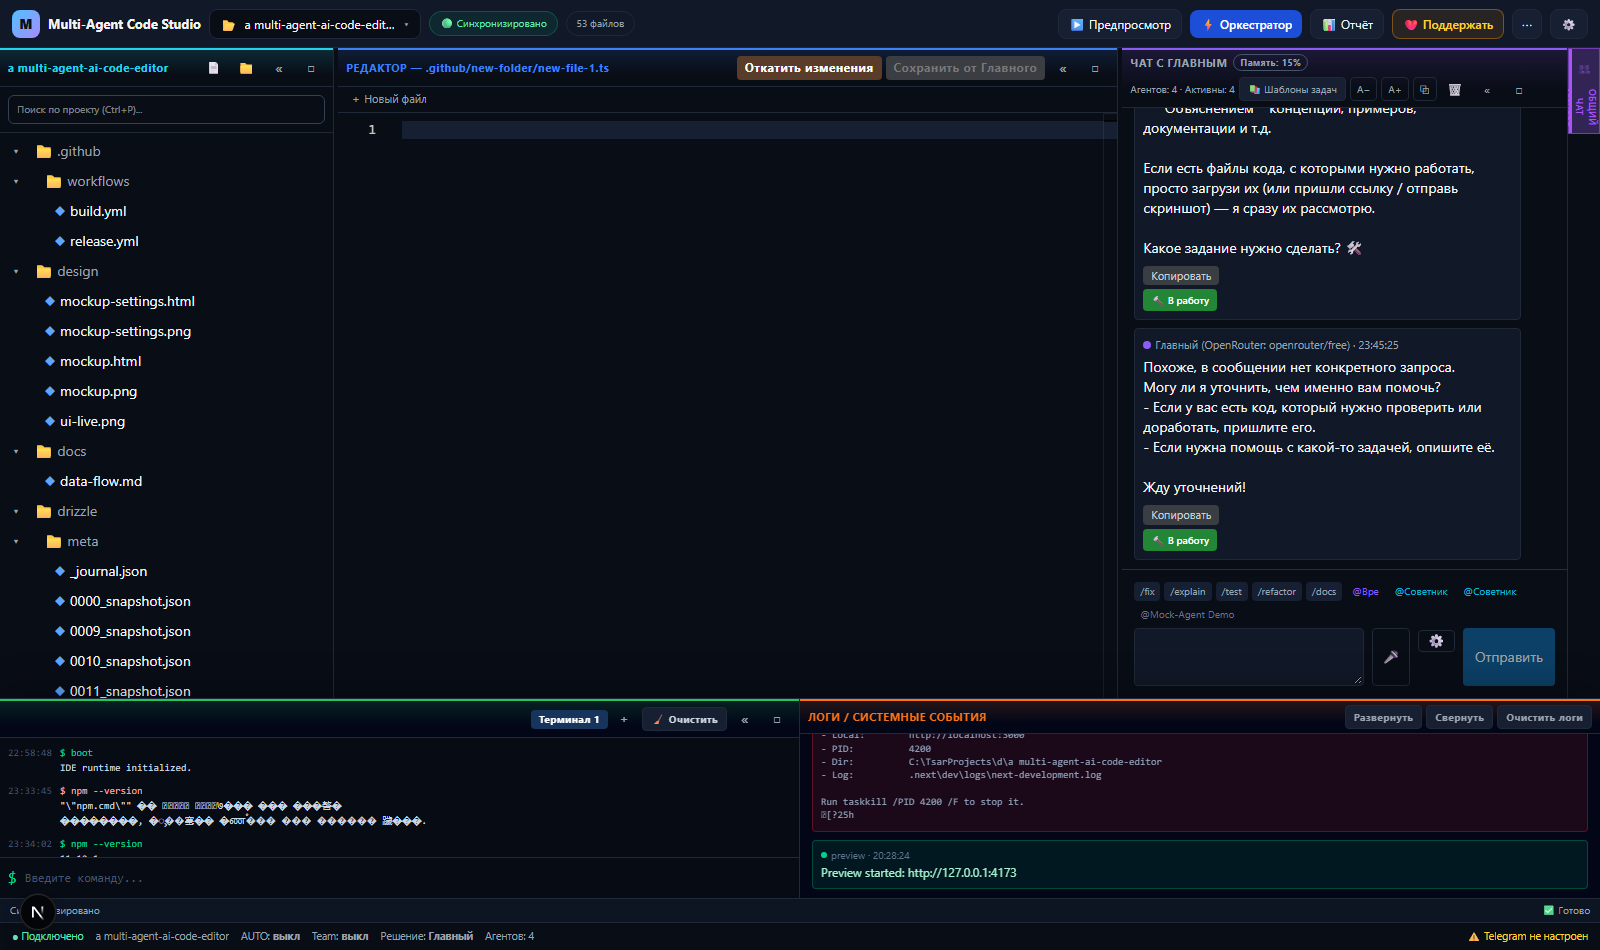
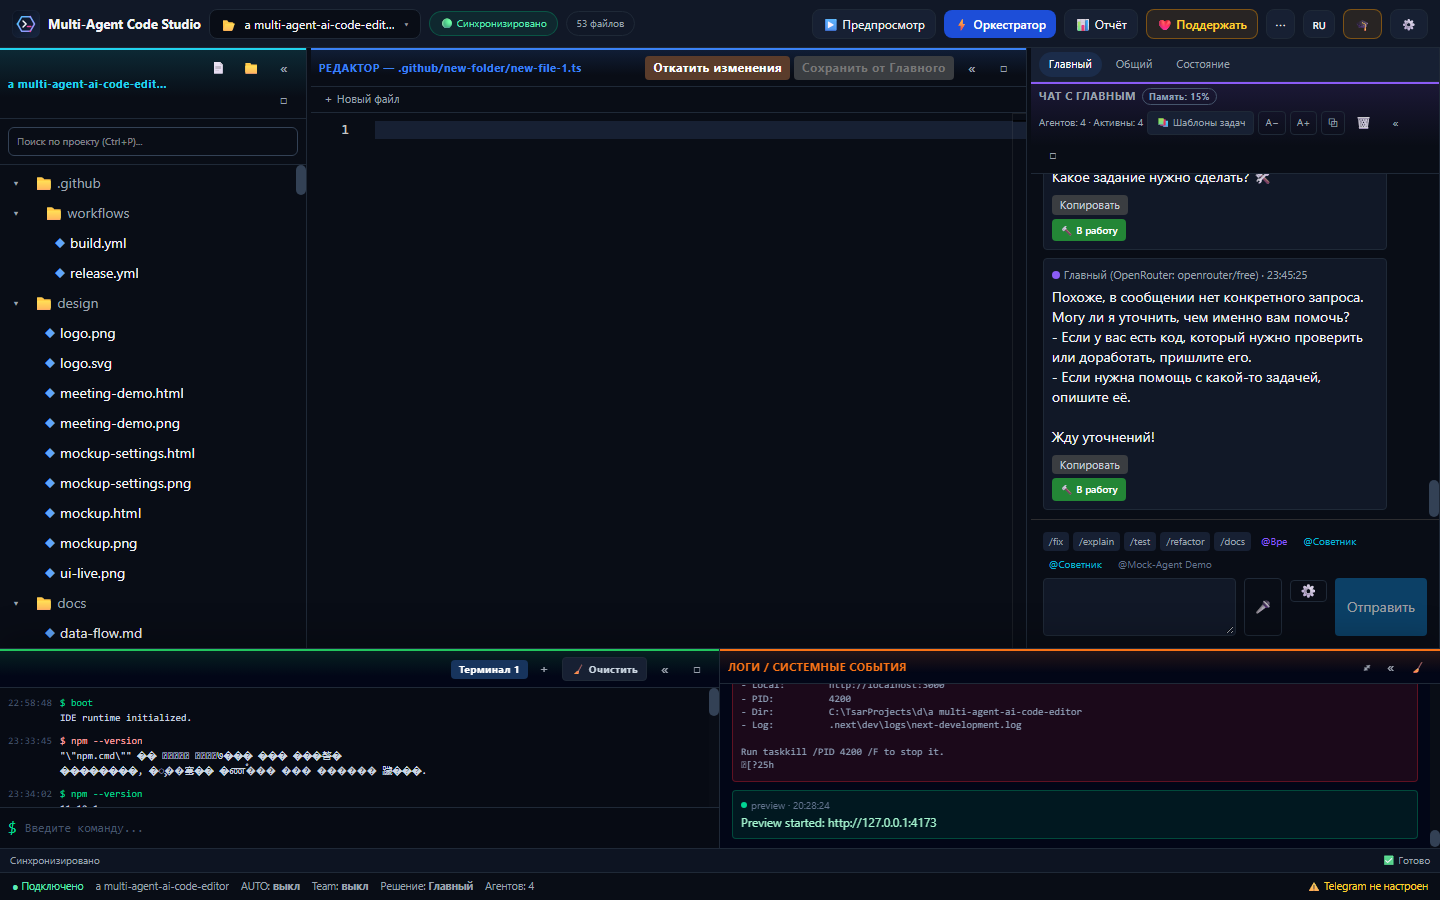
feat(ui): quick start guide and readable chat headers
🎓 button in the header opens a four-step checklist (own key, project folder, starter project, talk to the agents) with a button per step and live done counters.

Chat panel titles no longer repeat the tab names, and long tokens can no longer push a message bubble past the panel edge.

scripts/shoot-ui.cjs + scripts/cdp-eval.cjs capture the real running app through Edge CDP; design/ui-live.png, ui-settings.png, ui-state.png, ui-quickstart.png are shots of this build.

diff --git a/src/components/ide-app.tsx b/src/components/ide-app.tsx
@@ -7,6 +7,7 @@ import { ThemeToggle } from "@/components/theme-toggle";
 import { BrandMark } from "@/components/brand-mark";
 import { TeamMeeting, type MeetingLine, type MeetingStance } from "@/components/team-meeting";
 import { TeamState } from "@/components/team-state";
+import { QuickStart } from "@/components/quick-start";
 import { hasSseData, parseSseJson } from "@/lib/sse-json";
 import type { AgentIdentity } from "@/lib/agent-identity";
 import { useVoiceInput, VoiceSettings, loadVoicePrefs, saveVoicePrefs, type VoicePrefs } from "@/components/voice-input";
@@ -2283,6 +2284,7 @@ export function IdeApp() {
   const [settingsSection, setSettingsSection] = useState("keys");
   // Right column tabs: Главный / Общий / Состояние.
   const [teamTab, setTeamTab] = useState<"lead" | "group" | "state">("lead");
+  const [quickStartOpen, setQuickStartOpen] = useState(false);
   async function captureTaskBaseline() {
     try {
       const response = await fetch("/api/workspace/task-rollback?sinceId=0&files=meta", { cache: "no-store" });
@@ -3324,6 +3326,7 @@ ${lines.length > 0 ? lines.join("\n") : "_Системных событий не
             </>
           ) : null}
         </div>
+        <button type="button" onClick={() => setQuickStartOpen(true)} className="shrink-0 rounded-lg border border-amber-500/40 bg-amber-500/10 px-2.5 py-1.5 text-xs text-amber-200 hover:border-amber-400" title="Как начать">🎓</button>
         <button type="button" onClick={() => setSettingsOpen(true)} className="shrink-0 rounded-lg border border-[var(--border-default)] bg-[var(--bg-panel-alt)] px-2.5 py-1.5 text-xs hover:border-blue-400" title={t.settings}>⚙</button>
       </header>
 
@@ -3500,7 +3503,7 @@ ${lines.length > 0 ? lines.join("\n") : "_Системных событий не
                   </div>
                 <div className="panel-header chat-panel-header">
                   <div className="chat-panel-title">
-                    <span className="truncate">{t.leadChat}</span>
+                    <span className="truncate text-[10px] font-normal text-[var(--text-muted)]">{locale === "ru" ? "диалог с Главным" : "Lead dialogue"}</span>
                     <span className={`shrink-0 whitespace-nowrap rounded-full border px-1.5 py-0.5 text-[9px] ${contextStats.compressed ? "border-amber-500/40 bg-amber-500/10 text-amber-300" : "border-slate-600 text-slate-400"}`}>Память: {contextStats.percent}%{contextStats.compressed ? " | Сжато" : ""}</span>
                   </div>
                   <div className="chat-panel-actions relative">
@@ -3524,7 +3527,7 @@ ${lines.length > 0 ? lines.join("\n") : "_Системных событий не
                     {renderExpandButton("lead")}
                   </div>
                 </div>
-                <div className="min-h-0 flex-1 space-y-2 overflow-y-auto p-3" style={{ zoom: chatFontScale }}>
+                <div className="chat-no-overflow min-h-0 flex-1 space-y-2 overflow-y-auto p-3" style={{ zoom: chatFontScale }}>
                   {leadMessages?.map((msg) => (
                     <article key={msg.id} className={`w-fit max-w-[92%] rounded border p-2 text-sm ${msg.senderType === "user" ? "ml-auto border-[#007acc] bg-[#0e639c] text-white" : "mr-auto border-[var(--border-default)] bg-[var(--bg-panel)]"}`}>
                       <div className="flex items-center justify-between gap-2">
@@ -3655,7 +3658,7 @@ ${lines.length > 0 ? lines.join("\n") : "_Системных событий не
                   </div>
                 <div className="panel-header chat-panel-header">
                   <div className="chat-panel-title">
-                    <span className="truncate">{t.allChat}</span>
+                    <span className="truncate text-[10px] font-normal text-[var(--text-muted)]">{locale === "ru" ? "обсуждение команды" : "team discussion"}</span>
                     <span className={`shrink-0 whitespace-nowrap rounded-full border px-1.5 py-0.5 text-[9px] ${contextStats.compressed ? "border-amber-500/40 bg-amber-500/10 text-amber-300" : "border-slate-600 text-slate-400"}`}>Память: {contextStats.percent}%{contextStats.compressed ? " | Сжато" : ""}</span>
                   </div>
                   <div className="chat-panel-actions relative">
@@ -3689,7 +3692,7 @@ ${lines.length > 0 ? lines.join("\n") : "_Системных событий не
                     {renderExpandButton("group")}
                   </div>
                 </div>
-                <div className="min-h-0 flex-1 space-y-2 overflow-y-auto p-3" style={{ zoom: chatFontScale }}>
+                <div className="chat-no-overflow min-h-0 flex-1 space-y-2 overflow-y-auto p-3" style={{ zoom: chatFontScale }}>
                   {groupMessages?.map((msg) => (
                     <article key={msg.id} className={`w-fit max-w-[92%] rounded border p-2 text-sm ${msg.senderType === "user" ? "ml-auto border-[#007acc] bg-[#0e639c] text-white" : "mr-auto border-[var(--border-default)] bg-[var(--bg-panel)]"}`}>
                       <div className="flex items-center justify-between gap-2">
@@ -4803,6 +4806,28 @@ ${lines.length > 0 ? lines.join("\n") : "_Системных событий не
           <span className="text-amber-300">⚠ Telegram {locale === "ru" ? "не настроен" : "not configured"}</span>
         ) : null}
       </footer>
+
+      {quickStartOpen ? (
+        <div className="fixed inset-0 z-[75] flex items-start justify-center overflow-y-auto bg-black/80 p-4" onClick={() => setQuickStartOpen(false)}>
+          <div className="w-full max-w-2xl" onClick={(event) => event.stopPropagation()}>
+            <QuickStart
+              locale={locale === "en" ? "en" : "ru"}
+              hasKey={Object.values(data?.settings.apiKeysConfigured ?? {}).some(Boolean)}
+              hasFolder={Boolean(data?.settings.projectRoot)}
+              hasFiles={(data?.files.length ?? 0) > 0}
+              onOpenSettings={() => { setQuickStartOpen(false); setSettingsSection("keys"); setSettingsOpen(true); }}
+              onPickFolder={() => { setQuickStartOpen(false); void pickWorkspaceFolder(); }}
+              onOpenPreset={() => { setQuickStartOpen(false); setTemplateOpen(true); }}
+              onAskAgents={() => { setQuickStartOpen(false); setTeamTab("lead"); }}
+            />
+            <div className="mt-2 text-center">
+              <button type="button" onClick={() => setQuickStartOpen(false)} className="rounded-lg border border-[var(--border-default)] px-3 py-1.5 text-xs text-[var(--text-secondary)] hover:border-blue-400">
+                {locale === "ru" ? "Закрыть" : "Close"}
+              </button>
+            </div>
+          </div>
+        </div>
+      ) : null}
 
       {meetingOpen ? (
         <div className="fixed inset-0 z-[75] flex items-center justify-center bg-black/80 p-3" onClick={() => setMeetingOpen(false)}>

diff --git a/src/components/quick-start.tsx b/src/components/quick-start.tsx
@@ -1,0 +1,110 @@
+"use client";
+
+import { useState } from "react";
+
+type Step = { id: string; title: string; body: string; action?: string };
+
+// "Как начать": a short, always-available checklist. Shown as a card on the
+// empty-project screen and reachable from the header (🎓). No marketing copy —
+// only the four things a new user actually has to click.
+export function QuickStart({
+  locale,
+  hasKey,
+  hasFolder,
+  hasFiles,
+  onOpenSettings,
+  onPickFolder,
+  onOpenPreset,
+  onAskAgents,
+}: {
+  locale: "ru" | "en";
+  hasKey: boolean;
+  hasFolder: boolean;
+  hasFiles: boolean;
+  onOpenSettings: () => void;
+  onPickFolder: () => void;
+  onOpenPreset: () => void;
+  onAskAgents: () => void;
+}) {
+  const ru = locale === "ru";
+  const [done, setDone] = useState<Record<string, boolean>>({});
+
+  const steps: Step[] = [
+    {
+      id: "key",
+      title: ru ? "Вставьте свой ключ" : "Add your own key",
+      body: ru
+        ? "Настройки → Модели и ключи. Ключ хранится только на этом компьютере, в зашифрованном виде. Бесплатный ключ OpenRouter — по ссылке в том же окне."
+        : "Settings → Models and keys. The key stays on this machine, encrypted. A free OpenRouter key is one click away in the same window.",
+      action: ru ? "Открыть ключи" : "Open keys",
+    },
+    {
+      id: "folder",
+      title: ru ? "Выберите папку проекта" : "Pick a project folder",
+      body: ru
+        ? "Кнопка «📂 Проект» в шапке или «Настройки → Проект». Новая пустая папка тоже подойдёт."
+        : "The 📂 Project button in the header, or Settings → Project. An empty folder works too.",
+      action: ru ? "Выбрать папку" : "Pick a folder",
+    },
+    {
+      id: "start",
+      title: ru ? "Создайте стартовый проект" : "Create a starter project",
+      body: ru
+        ? "«📂 Проект → Новый из пресета»: веб, мобильное или десктоп — появятся файлы, и превью запустится само."
+        : "📂 Project → New from preset: web, mobile or desktop. Files appear and the preview starts by itself.",
+      action: ru ? "Новый из пресета" : "New from preset",
+    },
+    {
+      id: "ask",
+      title: ru ? "Опишите задачу команде" : "Describe the task to the team",
+      body: ru
+        ? "В чате «Главный» напишите, что нужно. Ctrl+K — палитра команд. 🎬 Заседание — как команда спорила. Вкладка «Состояние» — кто онлайн и что изменено."
+        : "In the Lead chat, describe what you need. Ctrl+K opens the command palette. 🎬 Meeting shows the argument. The State tab shows who is online and what changed.",
+      action: ru ? "К чату" : "Go to chat",
+    },
+  ];
+
+  const actions: Record<string, () => void> = {
+    key: onOpenSettings,
+    folder: onPickFolder,
+    start: onOpenPreset,
+    ask: onAskAgents,
+  };
+  const status: Record<string, boolean> = { key: hasKey, folder: hasFolder, start: hasFiles, ask: Object.keys(done).includes("ask") };
+
+  return (
+    <div className="rounded-2xl border border-[var(--border-default)] bg-[var(--bg-panel)] p-4">
+      <div className="mb-3 flex items-center justify-between">
+        <h3 className="text-sm font-bold text-white">{ru ? "Как начать — 4 шага" : "Get started in 4 steps"}</h3>
+        <span className="text-[10px] text-[var(--text-muted)]">
+          {ru ? "выполнено" : "done"}: {Object.values(status).filter(Boolean).length}/4
+        </span>
+      </div>
+      <ol className="space-y-2">
+        {steps.map((step, index) => {
+          const ready = status[step.id];
+          return (
+            <li key={step.id} className={"rounded-xl border p-2.5 " + (ready ? "border-emerald-500/40 bg-emerald-500/5" : "border-[var(--border-default)] bg-[var(--bg-panel-alt)]")}>
+              <div className="flex items-start gap-2">
+                <span className={"mt-0.5 flex h-5 w-5 shrink-0 items-center justify-center rounded-full text-[10px] font-bold " + (ready ? "bg-emerald-600 text-white" : "bg-[#1b2c4a] text-white")}>
+                  {ready ? "✓" : index + 1}
+                </span>
+                <div className="min-w-0 flex-1">
+                  <p className="text-[12px] font-semibold text-[var(--text-primary)]">{step.title}</p>
+                  <p className="mt-0.5 text-[11px] leading-snug text-[var(--text-secondary)]">{step.body}</p>
+                </div>
+                <button
+                  type="button"
+                  onClick={() => { actions[step.id]?.(); setDone((prev) => ({ ...prev, [step.id]: true })); }}
+                  className="shrink-0 rounded-lg border border-[var(--border-default)] px-2 py-1 text-[10px] text-[var(--text-secondary)] hover:border-blue-400 hover:text-white"
+                >
+                  {step.action}
+                </button>
+              </div>
+            </li>
+          );
+        })}
+      </ol>
+    </div>
+  );
+}

diff --git a/src/app/globals.css b/src/app/globals.css
@@ -439,3 +439,8 @@ html * {
 .panel-accent-logs > .panel > .panel-header > span:first-child {
   color: var(--panel-accent);
 }
+
+/* Chat panels: long unbroken tokens used to push the bubble out of the
+   panel and cut the right edge of every message. */
+.chat-no-overflow { overflow-x: hidden; }
+.chat-no-overflow article { overflow-wrap: anywhere; word-break: break-word; }

diff --git a/scripts/_open-state.js b/scripts/_open-state.js
@@ -1,0 +1,1 @@
+var t = document.querySelector('.team-tabs'); t.querySelectorAll('button')[2].click();

diff --git a/scripts/_open-quickstart.js b/scripts/_open-quickstart.js
@@ -1,0 +1,1 @@
+var b = document.querySelectorAll('header button'); b[b.length - 2].click();

diff --git a/scripts/_open-settings.js b/scripts/_open-settings.js
@@ -1,0 +1,1 @@
+var b = document.querySelectorAll('header button'); b[b.length - 1].click();
